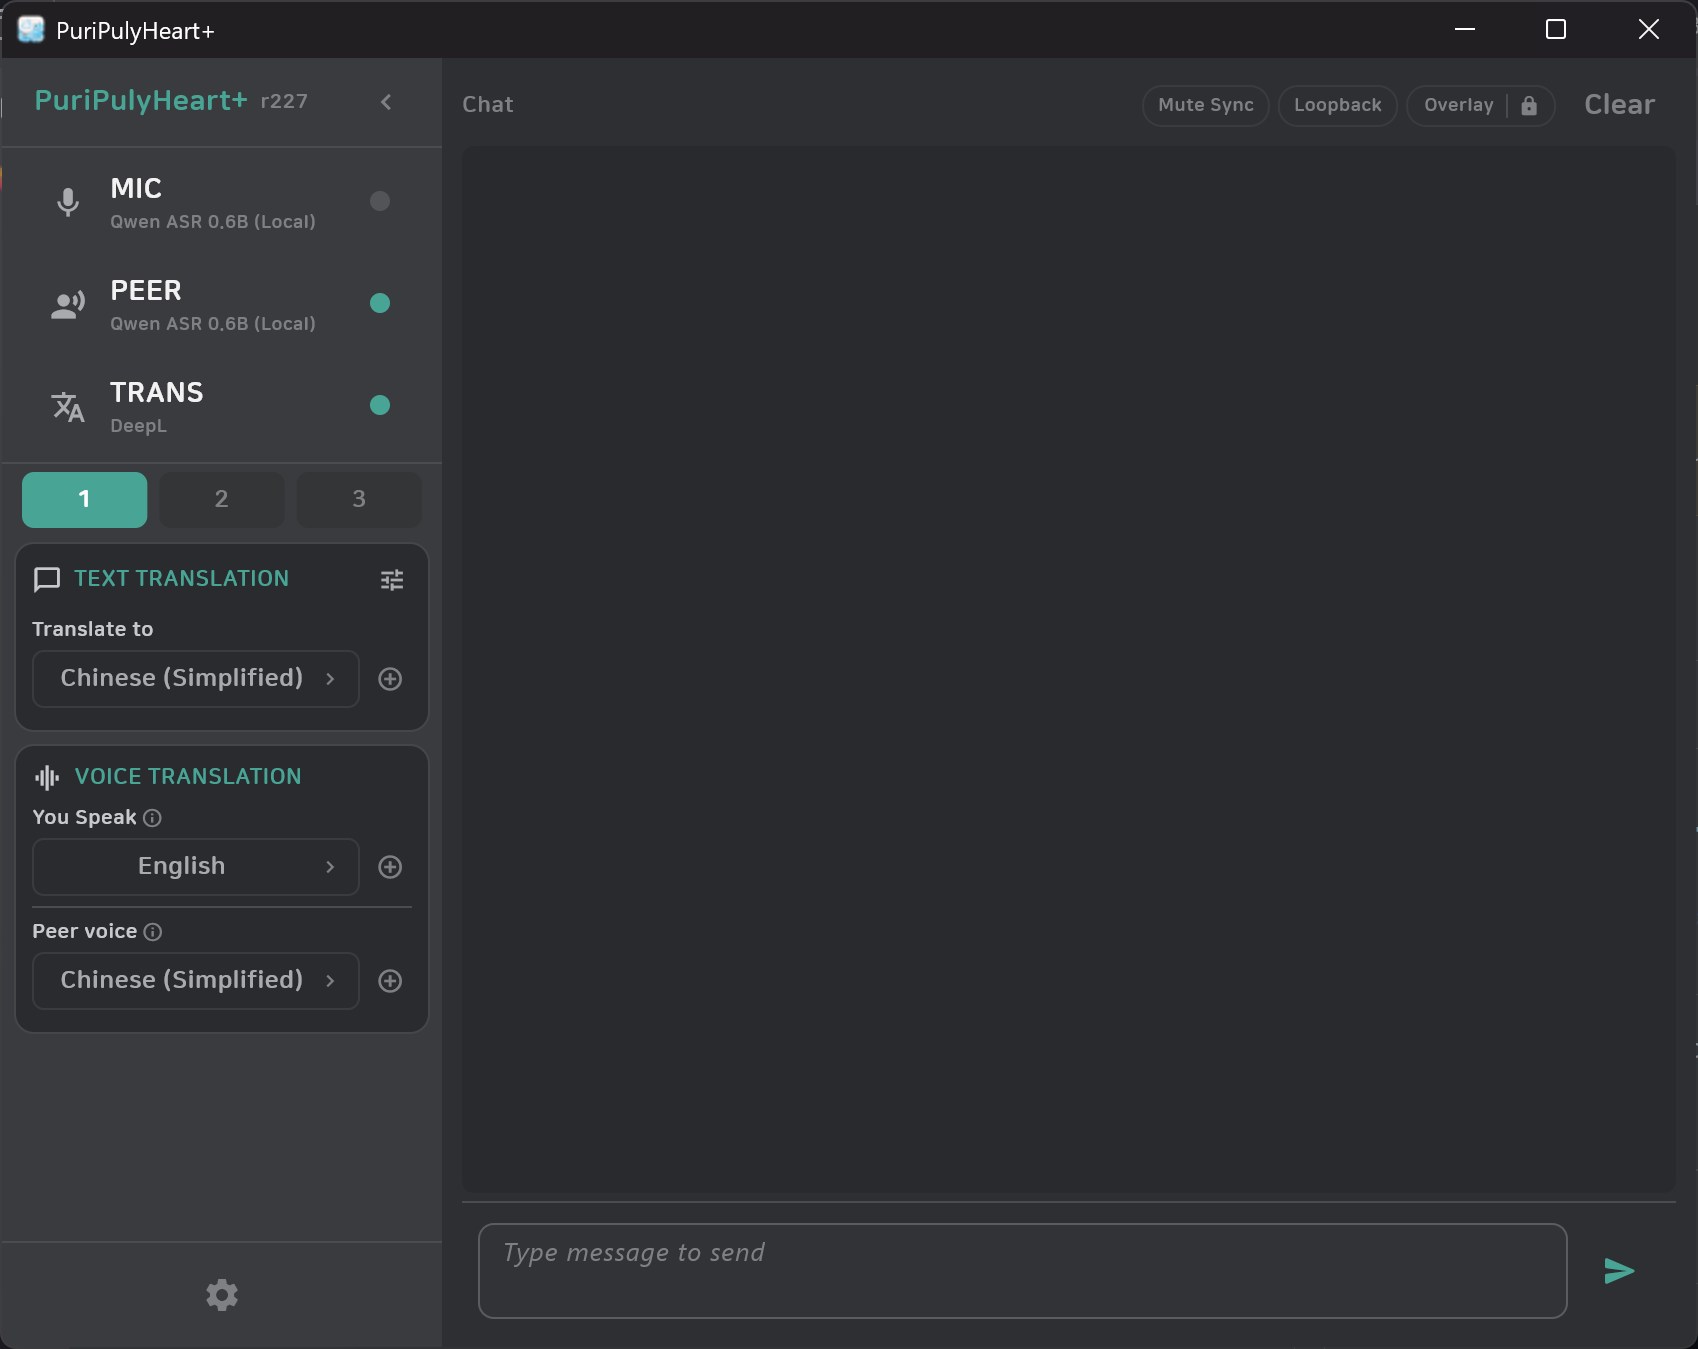
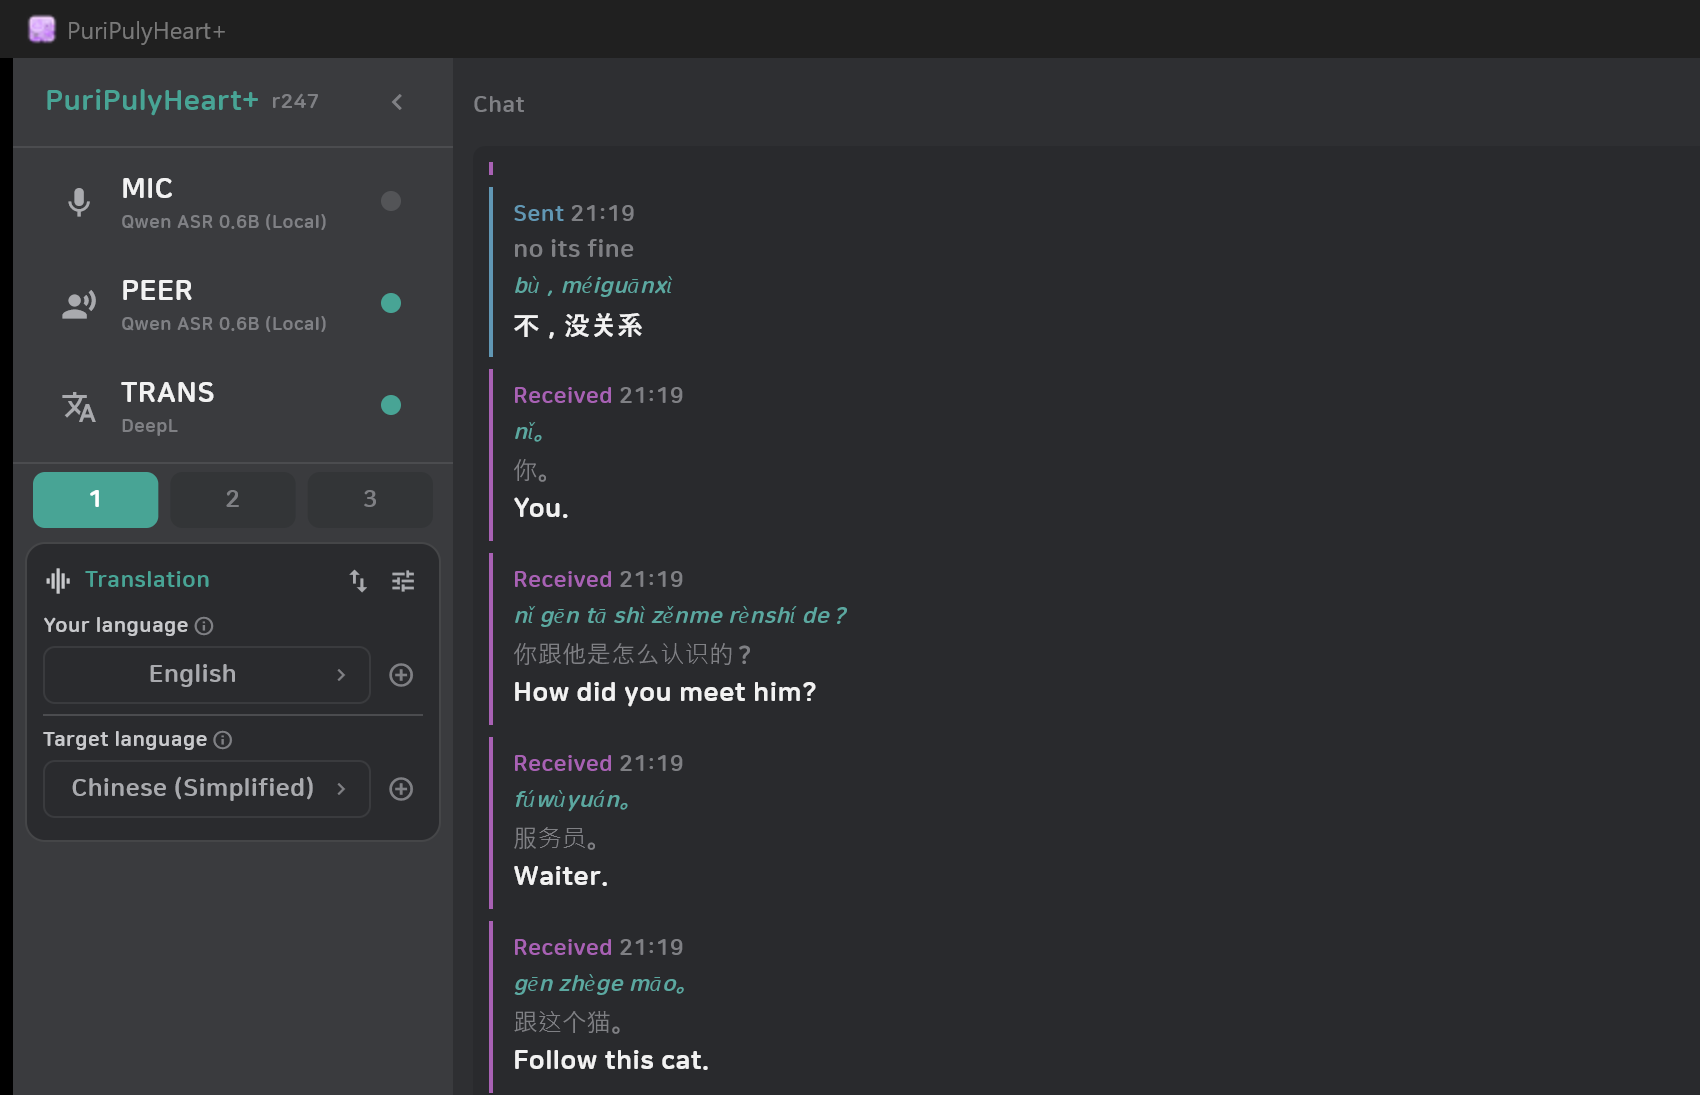
Release 2.2.0 (r248): ship the OCR overlay as a bundled app
- ocr_overlay.spec: the realtime OCR overlay becomes its own frozen app
  (PuriPulyHeartOCR.exe) — rapidocr models, onnxruntime-directml, opencv,
  mss, tkinter, jieba/pypinyin data and the free web translators are all
  bundled. The release packaging copies it to <app>\ocr\PuriPulyHeartOCR\.
- manager: frozen builds launch the bundled exe; this dev machine's repo
  test builds keep hot-swapping from the source venv when no bundled exe
  is present. Args split from the interpreter invocation.
- Version 2.1.2 -> 2.2.0, build tag r248, installer version bumped.
- README: new hero screenshot (unified Translation card + purple icon +
  live pinyin/translation chat), Realtime OCR feature section, quick
  start rewritten for the Your language / Target language fields, badge
  recolored to match the purple identity.

diff --git a/src/puripuly_heart/ocr/manager.py b/src/puripuly_heart/ocr/manager.py
@@ -68,14 +68,21 @@ def _fire_event(name: str) -> None:
         evt = kernel32.CreateEventW(None, False, False, name)
         kernel32.SetEvent(evt)
 
-# PROTOTYPE LOCAL BUILD ONLY. The packaged app doesn't bundle the OCR libraries
-# (rapidocr/mss/opencv/tkinter), so when running frozen we launch the overlay
-# through the source venv that DOES have them. These paths are this dev machine's
-# repo; a real shippable OCR feature would bundle the deps instead.
+# Packaged builds ship the OCR overlay as its own frozen app (built from
+# ocr_overlay.spec and copied to <app dir>\ocr\PuriPulyHeartOCR\) because it
+# needs libraries the main bundle excludes (rapidocr/mss/opencv/tkinter).
+# The dev-venv path below is the fallback for THIS dev machine only: running
+# a packaged build from the repo (scratchpad test builds) hot-swaps the
+# overlay from source instead of the bundled exe.
 _DEV_REPO = r"C:\Users\Owner\Desktop\PuriPuly-heart-2.1.2"
 _DEV_VENV_PY = os.path.join(_DEV_REPO, ".venv", "Scripts", "python.exe")
 _DEV_SRC = os.path.join(_DEV_REPO, "src")
 _CREATE_NO_WINDOW = 0x08000000
+
+
+def _packaged_ocr_exe() -> str:
+    return os.path.join(os.path.dirname(sys.executable),
+                        "ocr", "PuriPulyHeartOCR", "PuriPulyHeartOCR.exe")
 
 
 class OcrOverlayManager:
@@ -298,31 +305,38 @@ class OcrOverlayManager:
         if self.running:
             return True
         _shutdown_event(False)  # clear any previous OFF signal before spawning
-        args = ["-m", "puripuly_heart.ocr.overlay_proc",
-                "--fps", str(self._fps), "--monitor", str(self._monitor),
-                "--parent-pid", str(os.getpid()),
-                "--prewarm", "1" if self.prewarm else "0",
-                "--bubbles-only", "1" if self.bubbles_only else "0",
-                "--foreign-only", "1" if self.foreign_only else "0",
-                "--ignore-names", "1" if self.ignore_names else "0",
-                "--ignore-pronouns", "1" if self.ignore_pronouns else "0",
-                "--translate", "1" if self.translate else "0"]
+        flags = ["--fps", str(self._fps), "--monitor", str(self._monitor),
+                 "--parent-pid", str(os.getpid()),
+                 "--prewarm", "1" if self.prewarm else "0",
+                 "--bubbles-only", "1" if self.bubbles_only else "0",
+                 "--foreign-only", "1" if self.foreign_only else "0",
+                 "--ignore-names", "1" if self.ignore_names else "0",
+                 "--ignore-pronouns", "1" if self.ignore_pronouns else "0",
+                 "--translate", "1" if self.translate else "0"]
         if self.window_title:
-            args += ["--window", self.window_title]
+            flags += ["--window", self.window_title]
         env = dict(os.environ)
         if getattr(sys, "frozen", False):
-            # Packaged app: shell out to the source venv that has the OCR libs.
-            python = _DEV_VENV_PY
-            env["PYTHONPATH"] = _DEV_SRC
-            if not os.path.exists(python):
-                logger.warning("[OCR] dev venv not found at %s", python)
+            packaged = _packaged_ocr_exe()
+            if os.path.exists(packaged):
+                # Normal install: the bundled OCR overlay app.
+                cmd = [packaged, *flags]
+            elif os.path.exists(_DEV_VENV_PY):
+                # Dev machine running a repo test build: hot-swap from source.
+                env["PYTHONPATH"] = _DEV_SRC
+                cmd = [_DEV_VENV_PY, "-m",
+                       "puripuly_heart.ocr.overlay_proc", *flags]
+            else:
+                logger.warning(
+                    "[OCR] no bundled overlay at %s and no dev venv", packaged)
                 return False
         else:
-            python = sys.executable  # running from source
             env.setdefault("PYTHONPATH", _DEV_SRC)
+            cmd = [sys.executable, "-m",
+                   "puripuly_heart.ocr.overlay_proc", *flags]
         try:
             self._proc = subprocess.Popen(
-                [python, *args], env=env, creationflags=_CREATE_NO_WINDOW,
+                cmd, env=env, creationflags=_CREATE_NO_WINDOW,
             )
             logger.info("[OCR] overlay subprocess started (pid=%s)", self._proc.pid)
             return True

diff --git a/src/puripuly_heart/ui/views/dashboard.py b/src/puripuly_heart/ui/views/dashboard.py
@@ -15,7 +15,7 @@ from puripuly_heart.ui.fonts import font_for_language
 from puripuly_heart.ui.i18n import get_locale, language_name, t
 from puripuly_heart.ui.overlay_peer_contract import OverlayPeerConsumerContract
 
-_BUILD_TAG = "r247"  #increment each build so user can confirm version
+_BUILD_TAG = "r248"  #increment each build so user can confirm version
 
 # ── VRCT-style dark palette ──────────────────────────────────────────────────
 _BG_MAIN = "#2e2f32"

diff --git a/src/puripuly_heart/__init__.py b/src/puripuly_heart/__init__.py
@@ -1,4 +1,4 @@
 __all__ = ["__version__", "GITHUB_REPO"]
 
-__version__ = "2.1.2"
+__version__ = "2.2.0"
 GITHUB_REPO = "Sappha1/PuriPuly-heart-plus"

diff --git a/README.md b/README.md
@@ -5,7 +5,7 @@
 <h1 align="center">PuriPulyHeart+</h1>
 
 <p align="center">
-  <img src="https://img.shields.io/badge/version-2.1.2%2B-89CFF0" alt="Version" />
+  <img src="https://img.shields.io/badge/version-2.2.0%2B-B39DDB" alt="Version" />
   <img src="https://img.shields.io/badge/license-AGPL--3.0--or--later-blue" alt="License: AGPL-3.0-or-later" />
   <img src="https://img.shields.io/badge/python-3.12-yellow" alt="Python" />
   <img src="https://img.shields.io/badge/platform-Windows-lightgrey" alt="Platform" />
@@ -25,6 +25,7 @@ The original PuriPuly Heart already does the core job well: two-way voice transl
 
 ### New in this fork — not in the original
 
+- **Realtime OCR translation** — the app can *read the game screen itself*. Press a key (ALT+E out of the box) and it detects text on screen — chat bubbles, nameplates, signs — recognizes it, and paints the translation right over the game as a live subtitle, with optional pinyin reading. It's built for VRChat: it knows what a chat bubble looks like, follows text as players move, ignores player names / pronoun tags / group banners (each filter is toggleable, with an "unfiltered" bind for quick peeks at world text), and can restrict itself to a screen region. Detection runs locally on your GPU; translation uses the free web engines by default. Right-click the **OCR** pill to configure everything.
 - **Free translation built in** — Google and Bing web translation with no key, no cost, no account, plus **DeepL** support. The original expects a paid LLM provider; here you just install and start talking. If a paid translator can't run, translation automatically falls back to the free one instead of stopping.
 - **One-click in-app updates** — when a new version is out, an update button appears in the sidebar; one click downloads, applies, and restarts the app. The original has no self-update.
 - **A Windows installer** — `PuriPulyHeartPlus-Setup.exe`: per-user install (no admin prompt), Start-menu shortcut, uninstaller, installer UI in five languages, and it downloads the speech model during setup with an automatic China-friendly mirror.
@@ -35,7 +36,7 @@ The original PuriPuly Heart already does the core job well: two-way voice transl
 ### Improved from the original
 
 - **Overlay** — instant on/off and live switching between VR and desktop display, size presets, and position locking.
-- **Peer translation** — the other person's speech is translated into *your* language, following your "You Speak" setting.
+- **Peer translation** — the other person's speech is translated into *your* language automatically.
 - **Works out of the box in restrictive regions** — sensible defaults for China (Bing translation, local speech model from a reachable mirror) and clear messages when a network is blocking something.
 - **Polish everywhere** — three quick language preset slots, clearer status indicators with built-in VRChat OSC guidance, completed UI translations (English / 한국어 / 日本語 / 简体中文).
 
@@ -51,7 +52,7 @@ Either way, that's the last download you do by hand — updates arrive through t
 ## Quick start
 
 1. Install (or unzip) and launch.
-2. Pick your languages: **Translate to** (what your chatbox prints), **You Speak**, and **Peer voice**.
+2. Pick your languages: **Your language** (what you speak and read) and **Target language** (the other person's language — your messages translate into it). The ⇅ button swaps them.
 3. Click **MIC** to start voice recognition, **TRANS** for translation.
 4. Enable OSC in VRChat: Action Menu → Options → OSC → **Enabled** (the Mute Sync chip turns green after you toggle your in-game mic once).
 5. (Optional) **PEER** translates the other person's voice; **Overlay** shows subtitles on desktop or in VR.
